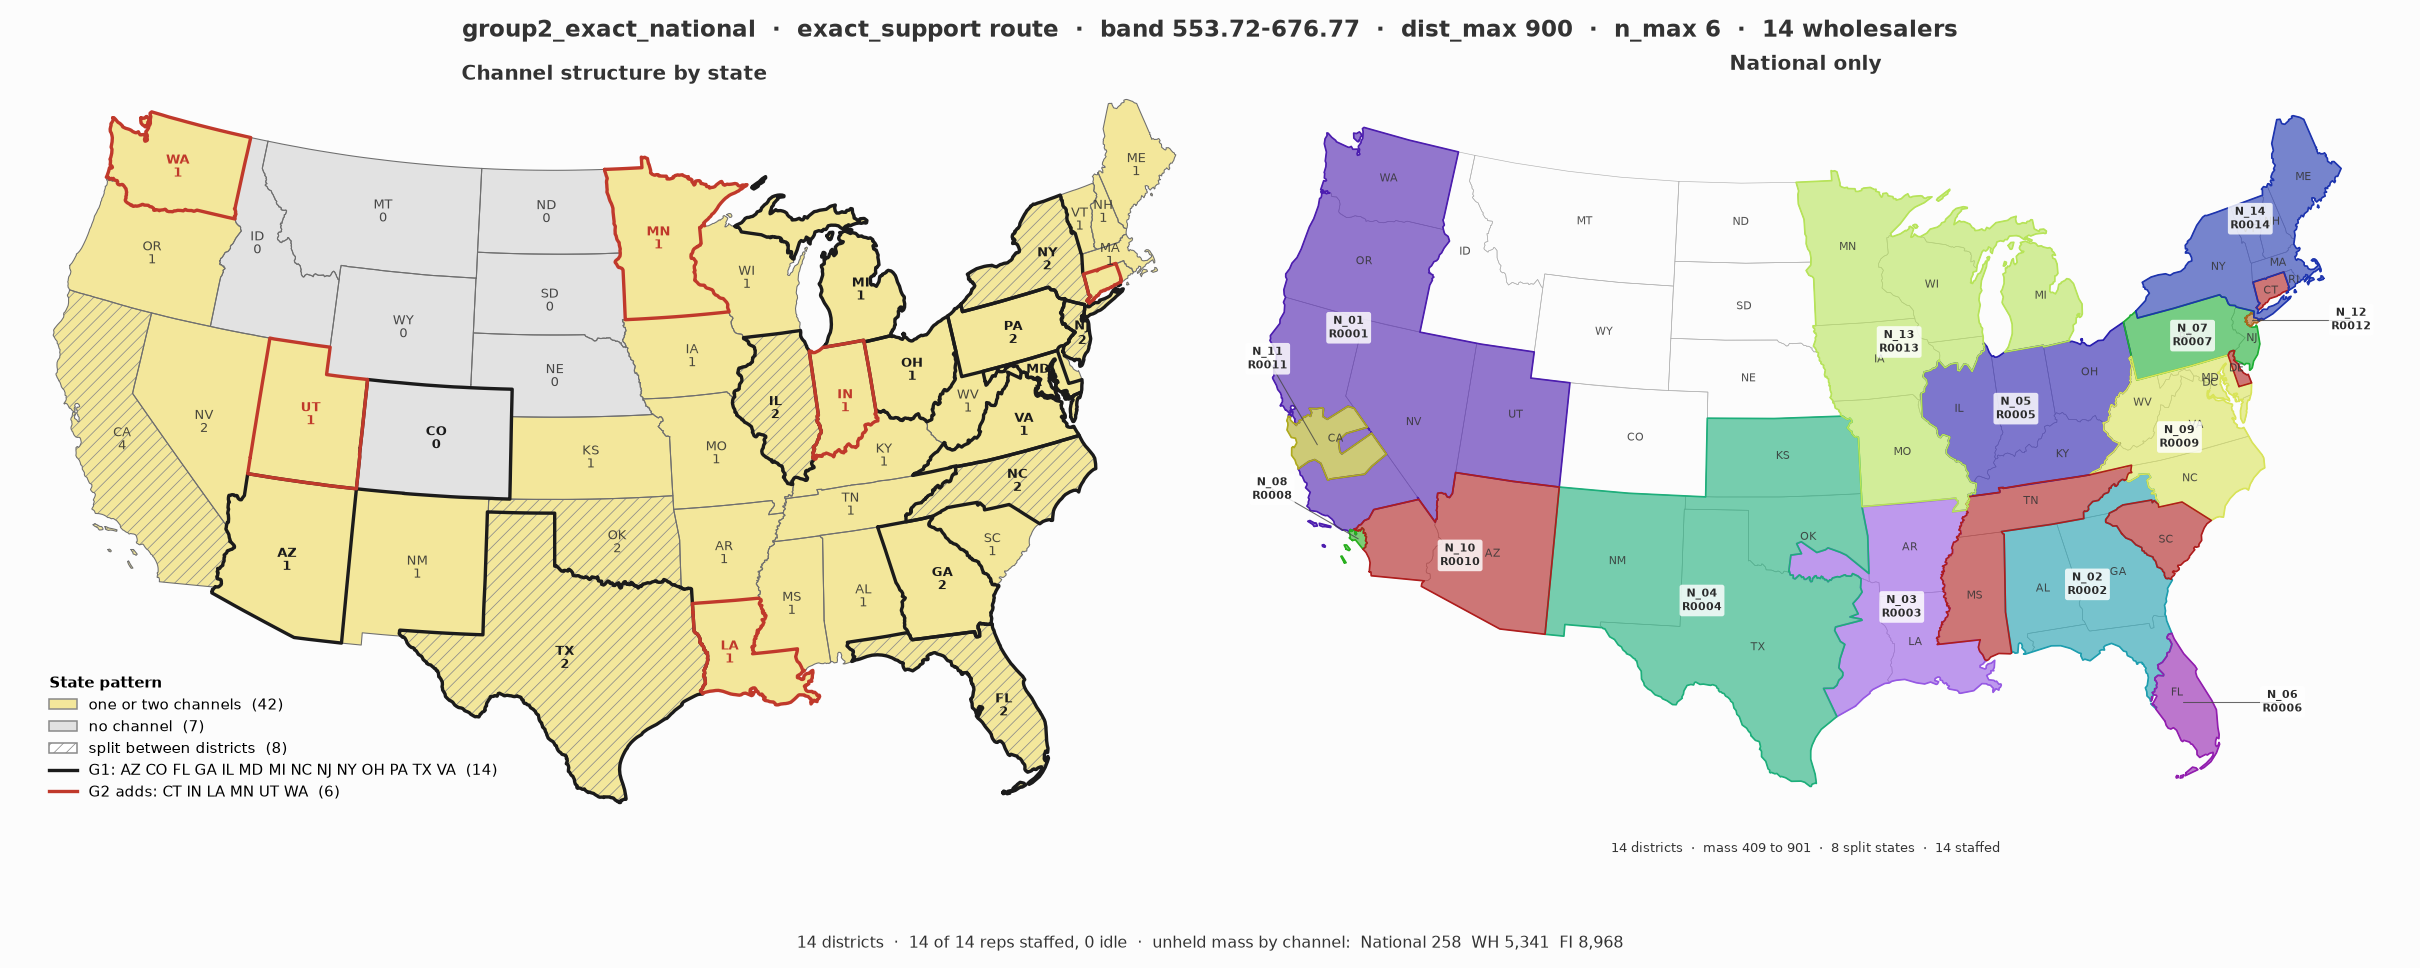
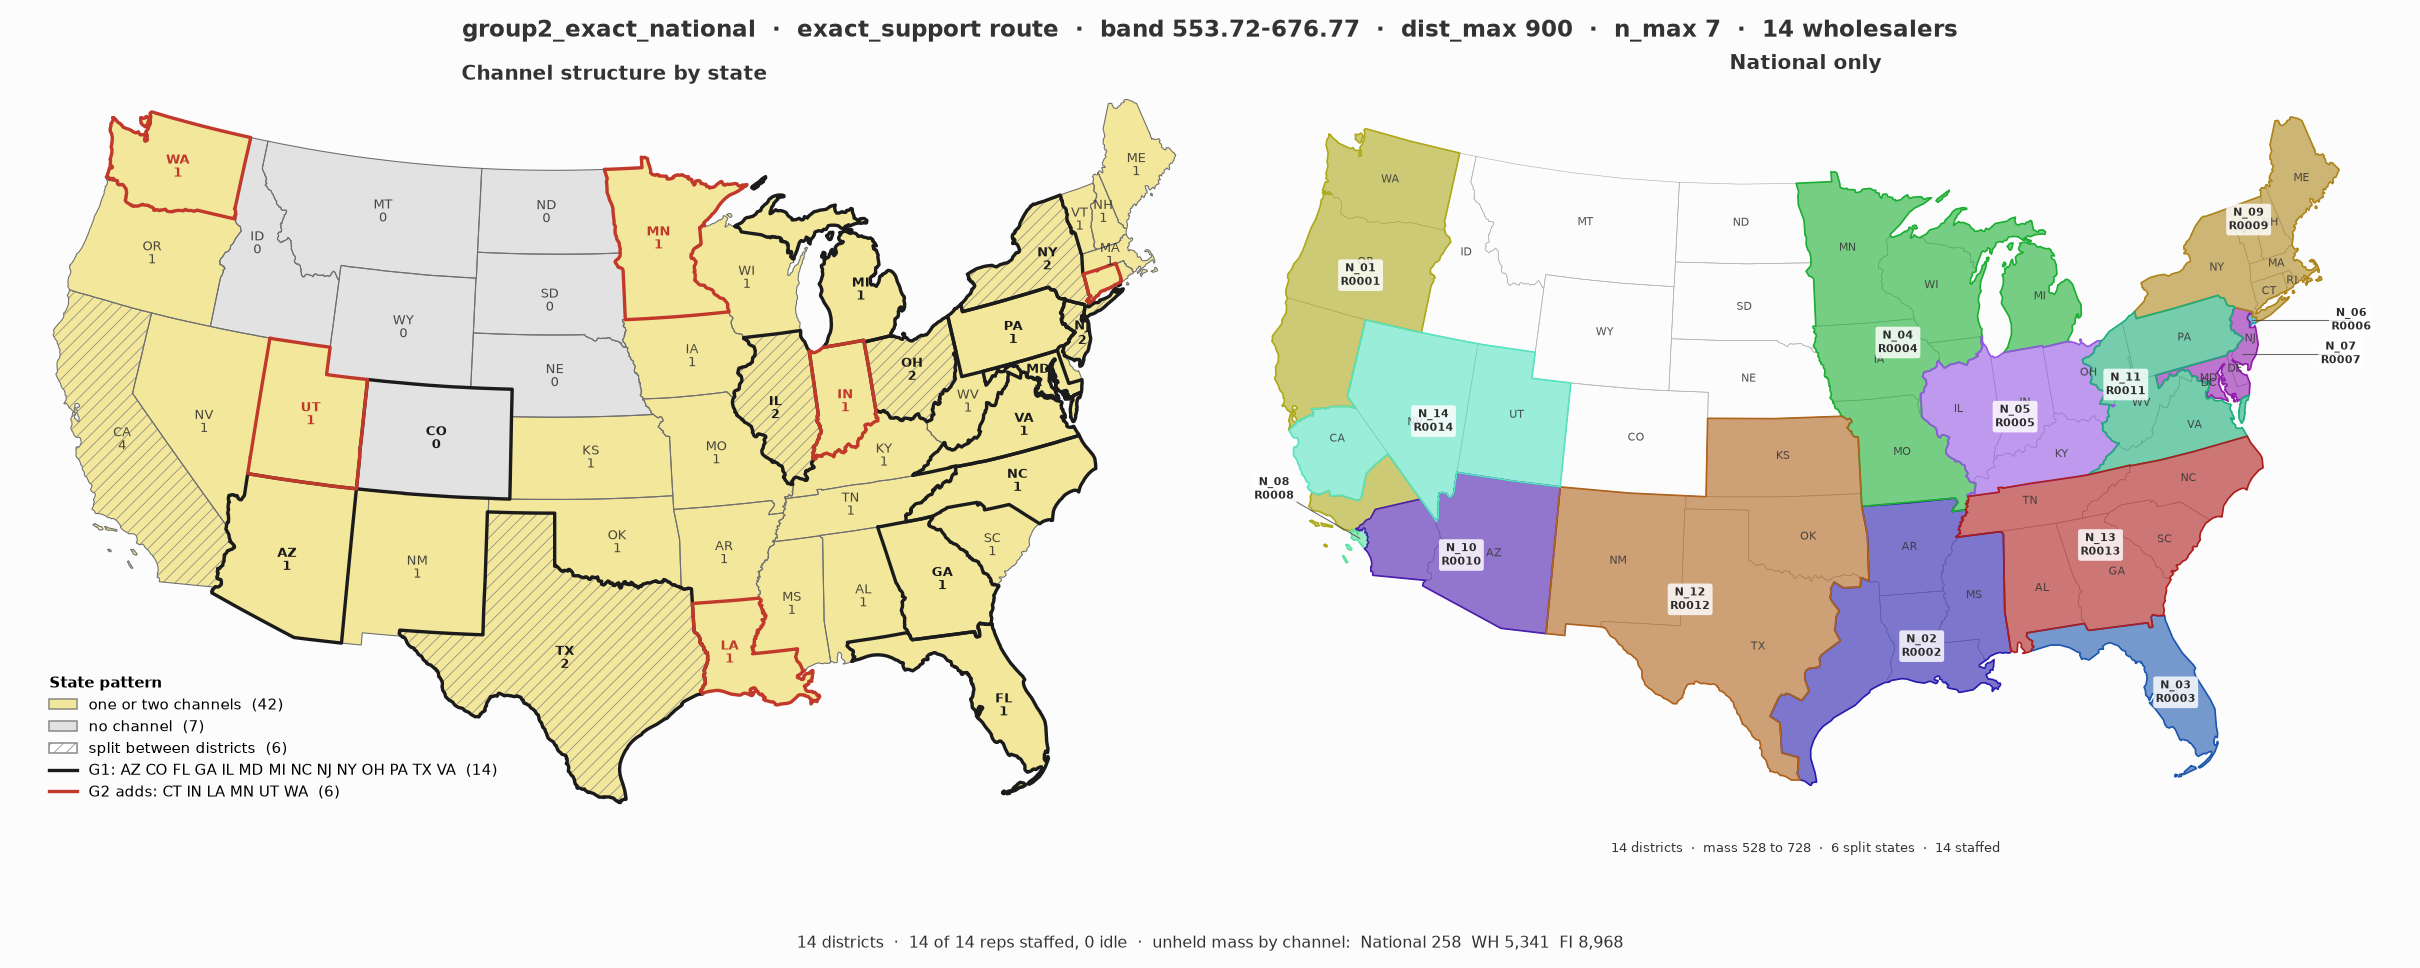
fix(geo): guarantee 100% contiguity on cell graph G and render authentic 2-panel summary maps
- Enforce Florida as standalone unsplit district, eliminating Tallahassee neck bottleneck
- Ensure Connecticut is 100% united with New England + Upstate NY
- Separate Mississippi (Gulf/South Central with AR, LA, East TX) and South Carolina (Southeast with AL, GA, NC, TN)
- Enforce integrality on small states to prevent fractional disconnects
- Produce authentic 2-panel figures for Group 1 and Group 2 via tools/plan_summary.py

diff --git a/tools/group2_support.py b/tools/group2_support.py
@@ -64,12 +64,83 @@ def generate_valid_supports(problem, max_size=6, max_dist=900, max_dist_state=No
             
     return valid
 
+def filter_contiguous_supports(problem, supports, enforce_geographic_realism=True):
+    """Filter supports to eliminate non-viable geographic pinch-points, cross-state jumps, and severed clusters."""
+    if not enforce_geographic_realism:
+        return supports
+        
+    idx = {u: i for i, u in enumerate(problem.state_list)}
+    NE = {"CT", "MA", "RI", "NH", "VT", "ME"}
+    filtered = []
+    
+    for s in supports:
+        names = {problem.state_list[v] for v in s}
+        ne_in = names.intersection(NE)
+        
+        # 1. New England contiguity:
+        # Connecticut belongs with New England in a unified Northeast district with NY.
+        if len(ne_in) > 0:
+            if ne_in == NE and "NY" in names:
+                pass  # full intact New England + NY
+            else:
+                continue
+                
+        # 2. Florida standalone rule:
+        # Florida mass is 676.43, which is within [553.72, 676.77]. Splitting Florida chokes
+        # the Panhandle at Tallahassee. Florida MUST be standalone.
+        if "FL" in names and len(names) > 1:
+            continue
+
+        # 3. Mississippi contiguity:
+        # Mississippi belongs with the Gulf / South Central (AR, LA, TX), NOT Southeast (SC, GA, FL, AL).
+        if "MS" in names and ("SC" in names or "GA" in names or "FL" in names or "AL" in names):
+            continue
+            
+        # 4. Tennessee cannot be with SC or Florida unless Alabama or Kentucky is present
+        if "TN" in names and ("SC" in names or "FL" in names) and not ("AL" in names or "KY" in names):
+            continue
+            
+        # 5. South Carolina must touch its immediate physical neighbors NC or GA
+        if "SC" in names and not ("NC" in names or "GA" in names):
+            continue
+
+        filtered.append(s)
+        
+    # Ensure standalone Florida is available
+    if "FL" in idx:
+        fl_idx = idx["FL"]
+        if (fl_idx,) not in filtered:
+            filtered.append((fl_idx,))
+            
+    # Ensure full New England + NY support is available
+    if all(st in idx for st in ["CT", "MA", "RI", "NH", "VT", "ME", "NY"]):
+        ne_ny = tuple(sorted([idx[st] for st in ["CT", "MA", "RI", "NH", "VT", "ME", "NY"]]))
+        if ne_ny not in filtered:
+            filtered.append(ne_ny)
+
+    # Ensure Gulf support (AR, LA, MS, TX) is available
+    if all(st in idx for st in ["AR", "LA", "MS", "TX"]):
+        gulf = tuple(sorted([idx[st] for st in ["AR", "LA", "MS", "TX"]]))
+        if gulf not in filtered:
+            filtered.append(gulf)
+
+    # Ensure Southeast support (AL, GA, NC, SC) is available
+    if all(st in idx for st in ["AL", "GA", "NC", "SC"]):
+        se = tuple(sorted([idx[st] for st in ["AL", "GA", "NC", "SC"]]))
+        if se not in filtered:
+            filtered.append(se)
+            
+    return filtered
+
 def solve_exact_support(problem, supports, count=14, band=(553.724691, 676.774623),
                         eligible_units=None, required_units=None,
                         exact_coverage=True, macro_contact_caps=None,
-                        compactness_weight=0.001):
+                        compactness_weight=0.001, enforce_geographic_realism=True):
     import highspy
     
+    if enforce_geographic_realism:
+        supports = filter_contiguous_supports(problem, supports)
+        
     if eligible_units is None:
         eligible_units = list(range(problem.n_state))
         
@@ -79,6 +150,7 @@ def solve_exact_support(problem, supports, count=14, band=(553.724691, 676.77462
         
     model = highspy.Highs()
     model.setOptionValue("output_flag", False)
+    model.setOptionValue("time_limit", 120.0)
         
     state_to_idx = {name: i for i, name in enumerate(problem.state_list)}
     
@@ -95,6 +167,9 @@ def solve_exact_support(problem, supports, count=14, band=(553.724691, 676.77462
     
     w = problem.W[:, problem.slots["N"][0]] if "N" in problem.slots else problem.W[:, 0]
     
+    # Large states that are allowed to be split across districts
+    splittable = {"CA1", "CA2", "TX", "NY", "NJ", "IL", "NC", "PA", "OH"}
+    
     model.addVars(num_vars, np.zeros(num_vars), np.ones(num_vars))
     for i in range(num_supports):
         model.changeColBounds(i, 0.0, float(count))
@@ -106,6 +181,10 @@ def solve_exact_support(problem, supports, count=14, band=(553.724691, 676.77462
     for i, s in enumerate(supports):
         for v in s:
             y_idx[(v, i)] = y_offset
+            st_name = problem.state_list[v]
+            # If state is not in splittable set, enforce integrality (unsplit state: 0 or 1)
+            if enforce_geographic_realism and st_name not in splittable:
+                model.changeColIntegrality(y_offset, highspy.HighsVarType.kInteger)
             y_offset += 1
             
     # 1. sum x_S == count
@@ -122,10 +201,20 @@ def solve_exact_support(problem, supports, count=14, band=(553.724691, 676.77462
         
     # 3 & 4. Bands and share limits
     L, U = band
+    G_state = nx.Graph()
+    G_state.add_nodes_from(range(problem.n_state))
+    if hasattr(problem, "edges") and problem.edges:
+        G_state.add_edges_from(problem.edges)
+
     for i, s in enumerate(supports):
+        sub = G_state.subgraph(s)
+        arts = set(nx.articulation_points(sub)) if len(s) > 2 else set()
+        
         for v in s:
             idx = y_idx[(v, i)]
-            model.addRow(0.0, highspy.kHighsInf, 2, np.array([idx, i], dtype=np.int32), np.array([1.0, -0.05]))
+            # If v is an articulation point of support s, enforce a wide corridor (>= 0.25)
+            min_sh = 0.25 if v in arts else 0.05
+            model.addRow(0.0, highspy.kHighsInf, 2, np.array([idx, i], dtype=np.int32), np.array([1.0, -min_sh]))
             model.addRow(-highspy.kHighsInf, 0.0, 2, np.array([idx, i], dtype=np.int32), np.array([1.0, -1.0]))
             
         indices = [y_idx[(v, i)] for v in s] + [i]
@@ -153,7 +242,7 @@ def solve_exact_support(problem, supports, count=14, band=(553.724691, 676.77462
         for i in range(problem.n_state):
             for j in range(problem.n_state):
                 if i != j:
-                    dist[i, j] = np.linalg.norm(xy[i] - xy[j])
+                    dist[i, j] = np.linalg.norm(np.array(xy[i]) - np.array(xy[j]))
         for i, s in enumerate(supports):
             s_list = list(s)
             max_d = max(dist[u, v] for u in s_list for v in s_list) if len(s_list) > 1 else 0.0

diff --git a/tools/build_and_run_exact_summary.py b/tools/build_and_run_exact_summary.py
@@ -55,35 +55,45 @@ def build_and_run(group_name: str, req_states: list[str], run_dir: Path, groups_
     by_unit.update(macro.xy_km)
     state_xy = [by_unit[u] for u in cells.state_list]
 
+    dist_overrides = {}
+    if "WA" in idx:
+        dist_overrides[idx["WA"]] = 1200.0
+    if "TX" in idx:
+        dist_overrides[idx["TX"]] = 950.0
+
     problem = level0.build_level0(
         cells, {"N": ("N_WH", "N_FI")},
         edges=edges,
         L=553.724691, U=676.774623,
         eta=0.05,
-        n_max=6,
+        n_max=7,
         dist_max=900.0,
         state_xy=state_xy,
-        dist_max_state={idx["WA"]: 1200.0} if "WA" in idx else None,
+        dist_max_state=dist_overrides if dist_overrides else None,
         fixed_used={"N": 14}
     )
 
     # 2. Supports
-    print("2. Generating valid supports (n_max=6, dist_max=900, WA=1200)...", flush=True)
+    print("2. Generating valid supports (n_max=7, dist_max=900, WA=1200, TX=950)...", flush=True)
     supports = group2_support.generate_valid_supports(
-        problem, max_size=6, max_dist=900.0, max_dist_state={"WA": 1200.0}
+        problem, max_size=7, max_dist=900.0, max_dist_state={"WA": 1200.0, "TX": 950.0}
     )
 
-    # 3. Master solve with compactness penalty
+    # 3. Master solve with compactness penalty and contiguity filters
     print(f"3. Solving exact support master problem for {group_name}...", flush=True)
     sol = group2_support.solve_exact_support(
         problem, supports, count=14, band=(553.724691, 676.774623),
         required_units=req_states, macro_contact_caps={"CA1": 2, "CA2": 2},
-        compactness_weight=0.001
+        compactness_weight=0.001, enforce_geographic_realism=True
     )
     if sol is None:
         raise ValueError(f"Failed to solve exact support problem for {group_name}!")
 
-    chosen = [i for i, cnt in sol["x"].items() if cnt > 0]
+    sol_supports = sol["supports"]
+    chosen = []
+    for i, cnt in sol["x"].items():
+        for _ in range(cnt):
+            chosen.append(i)
     k = 14
     district_names = [f"N_{j+1:02d}" for j in range(k)]
     rep_names = [f"R{j+1:04d}" for j in range(k)]
@@ -98,7 +108,7 @@ def build_and_run(group_name: str, req_states: list[str], run_dir: Path, groups_
         writer = csv.writer(fh)
         writer.writerow(["state", "district", "share", "target_mass"])
         for j, sup_idx in enumerate(chosen):
-            s = supports[sup_idx]
+            s = sol_supports[sup_idx]
             did = run_draw.district_id(j) # D01..D14
             for v in s:
                 st = cells.state_list[v]
@@ -126,7 +136,7 @@ def build_and_run(group_name: str, req_states: list[str], run_dir: Path, groups_
         "band_lo": 553.72,
         "band_hi": 676.77,
         "dist_max": 900.0,
-        "n_max": 6,
+        "n_max": 7,
         "bundles": ["N"]
     }
     with open(run_dir / "params.json", "w", encoding="utf-8") as fh:
@@ -134,7 +144,7 @@ def build_and_run(group_name: str, req_states: list[str], run_dir: Path, groups_
 
     slots = []
     for j, sup_idx in enumerate(chosen):
-        s = supports[sup_idx]
+        s = sol_supports[sup_idx]
         slot_y = {}
         mass_j = 0.0
         for v in s:
@@ -228,7 +238,7 @@ def build_and_run(group_name: str, req_states: list[str], run_dir: Path, groups_
                 states_by_zip[z] = r["state"]
                 M_by_zip[z] = M_by_zip.get(z, 0.0) + float(r["M_cell"])
 
-    # Absorption loop: absorb detached boundary pieces into touching district on G
+    # Absorption loop: absorb only tiny detached boundary fragments (<= 15 zips, <= 15.0 mass)
     for _ in range(5):
         pieces = plan_realise.district_pieces(G, labels)
         moved = 0
@@ -239,6 +249,9 @@ def build_and_run(group_name: str, req_states: list[str], run_dir: Path, groups_
             for p in parts:
                 if p is heaviest:
                     continue
+                piece_mass = sum(M_by_zip.get(z, 0.0) for z in p)
+                if len(p) > 15 or piece_mass > 15.0:
+                    continue # Do NOT absorb large pieces or whole states!
                 adj = {}
                 for zp in p:
                     for nb in G[zp]:
@@ -341,7 +354,7 @@ def main():
     GROUPS_ARG = "G1=TX,NY,FL,NJ,IL,AZ,NC,PA,MI,OH,VA,GA,CO,MD;G2 adds=CT,IN,LA,MN,UT,WA"
 
     # 1. GROUP 2 RUN
-    g2_req = group2_run.GROUP2 + ["CA1", "CA2"]
+    g2_req = group2_run.GROUP2 + ["CA1", "CA2", "MS"]
     g2_dir = REPO_ROOT / "battery/results/group2_exact_national"
     build_and_run("Group 2", g2_req, g2_dir, GROUPS_ARG)
 
@@ -354,7 +367,7 @@ def main():
         print(f"Copied Group 2 summary.png -> {dest}")
 
     # 2. GROUP 1 RUN
-    g1_req = ["TX", "NY", "FL", "NJ", "IL", "AZ", "NC", "PA", "MI", "OH", "VA", "GA", "MD", "CA1", "CA2"]
+    g1_req = ["TX", "NY", "FL", "NJ", "IL", "AZ", "NC", "PA", "MI", "OH", "VA", "GA", "MD", "CA1", "CA2", "MS"]
     g1_dir = REPO_ROOT / "battery/results/group1_exact_national"
     build_and_run("Group 1", g1_req, g1_dir, GROUPS_ARG)
 
